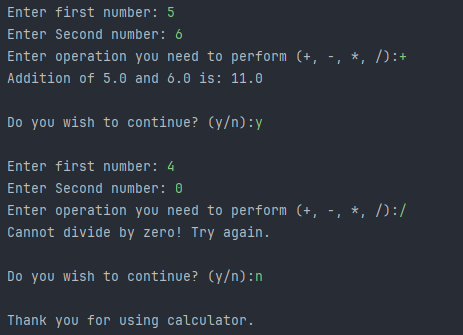
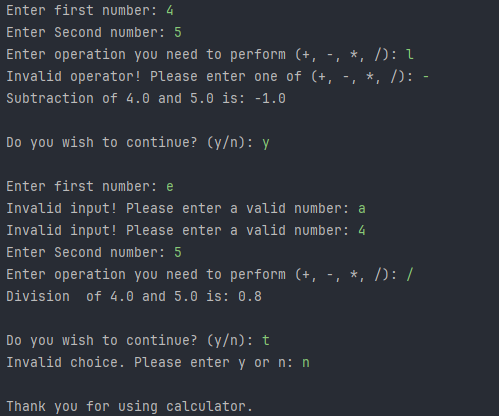
Input Validation and Final touchup

diff --git a/Calculator.java b/Calculator.java
@@ -48,15 +48,32 @@ public class Calculator {
         while (start.equalsIgnoreCase("y")) {
             //User input for first number
             System.out.print("Enter first number: ");
+
+            //Validate input
+            while (!input.hasNextDouble()) {
+                System.out.print("Invalid input! Please enter a valid number: ");
+                input.next(); // clear the invalid input
+            }
             number1 = input.nextDouble();
 
             //User input for second number
             System.out.print("Enter Second number: ");
+
+            //Validate input
+            while (!input.hasNextDouble()) {
+                System.out.print("Invalid input! Please enter a valid number: ");
+                input.next(); // clear the invalid input
+            }
             number2 = input.nextDouble();
 
-            //User input for operation to perform
-            System.out.print("Enter operation you need to perform (+, -, *, /):");
+            System.out.print("Enter operation you need to perform (+, -, *, /): ");
             operation = input.next().charAt(0);
+
+            //Validate input
+            while (operation != '+' && operation != '-' && operation != '*' && operation != '/') {
+                System.out.print("Invalid operator! Please enter one of (+, -, *, /): ");
+                operation = input.next().charAt(0);
+            }
 
             //Switch statement to perform operation based on user input
             switch (operation) {
@@ -68,8 +85,14 @@ public class Calculator {
             }
 
             //It helps to re-run or quit the program
-            System.out.print("Do you wish to continue? (y/n):");
+            System.out.print("Do you wish to continue? (y/n): ");
             start = input.next();
+
+            //Validate input
+            while (!start.equalsIgnoreCase("y") && !start.equalsIgnoreCase("n")) {
+                System.out.print("Invalid choice. Please enter y or n: ");
+                start = input.next();
+            }
             System.out.println();
         }
         System.out.print("Thank you for using calculator.");
